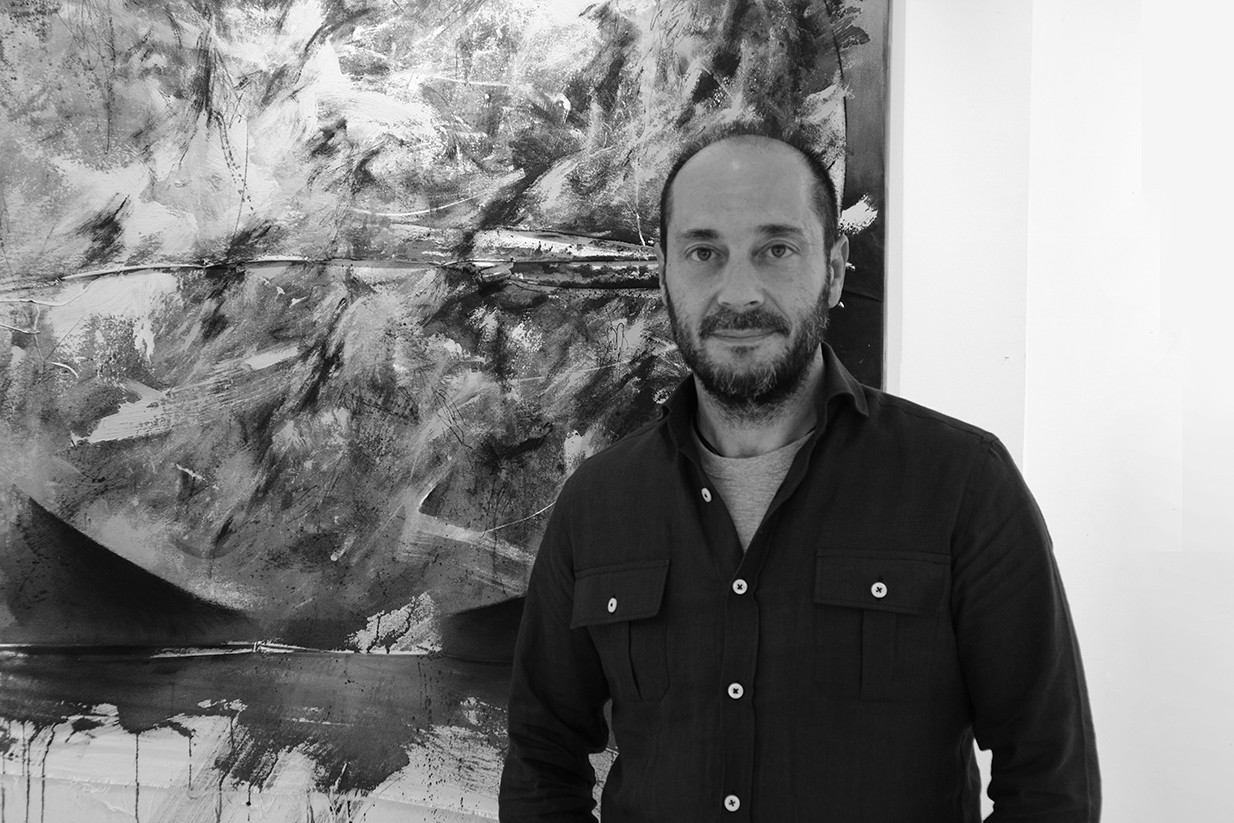
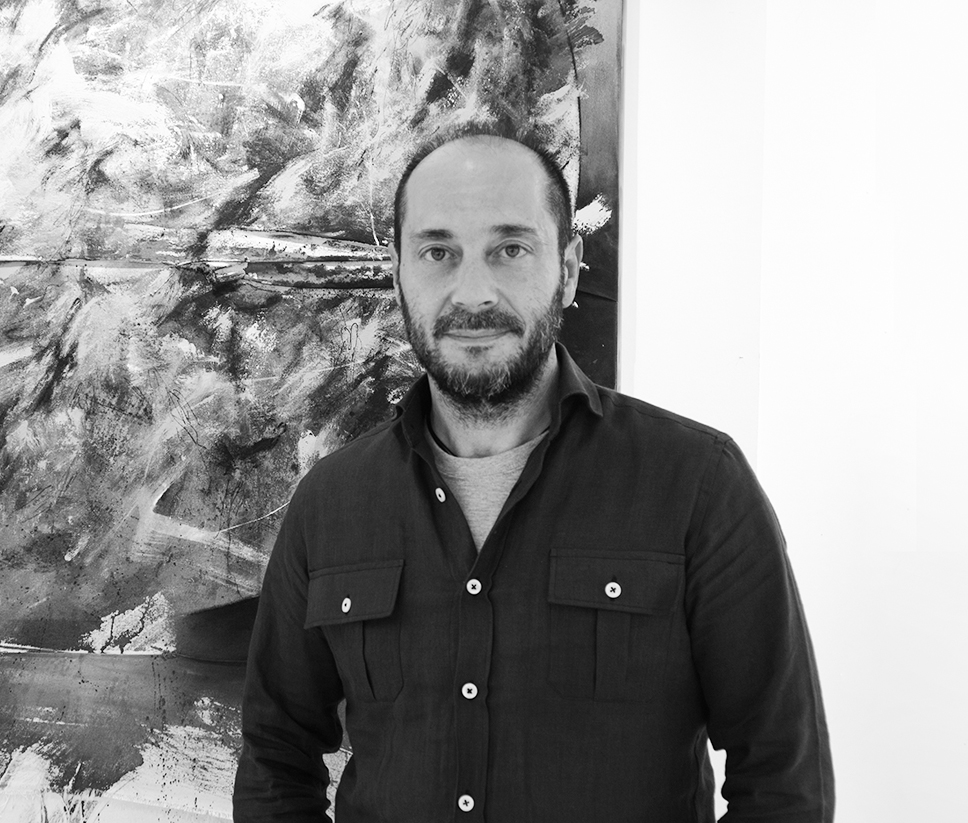
Swap in the new Curriculum portrait and enlarge it further
Claude-Session: https://claude.ai/code/session_01XYyowz46mNQNHAwCGEKQtW

diff --git a/css/style.css b/css/style.css
@@ -532,7 +532,7 @@ a { color: inherit; text-decoration: none; }
 }
 
 .cv-intro .cv-portrait {
-  flex: 0 0 420px;
+  flex: 0 0 520px;
 }
 
 .cv-intro .cv-portrait img {
@@ -745,7 +745,7 @@ a { color: inherit; text-decoration: none; }
 
   .grabado-feature { flex-direction: column; gap: 30px; }
   .cv-intro { flex-direction: column; gap: 30px; }
-  .cv-intro .cv-portrait { flex: none; width: 260px; }
+  .cv-intro .cv-portrait { flex: none; width: 320px; }
   .grabado-feature .gf-image { flex: none; width: 100%; }
 
   .site-footer {
